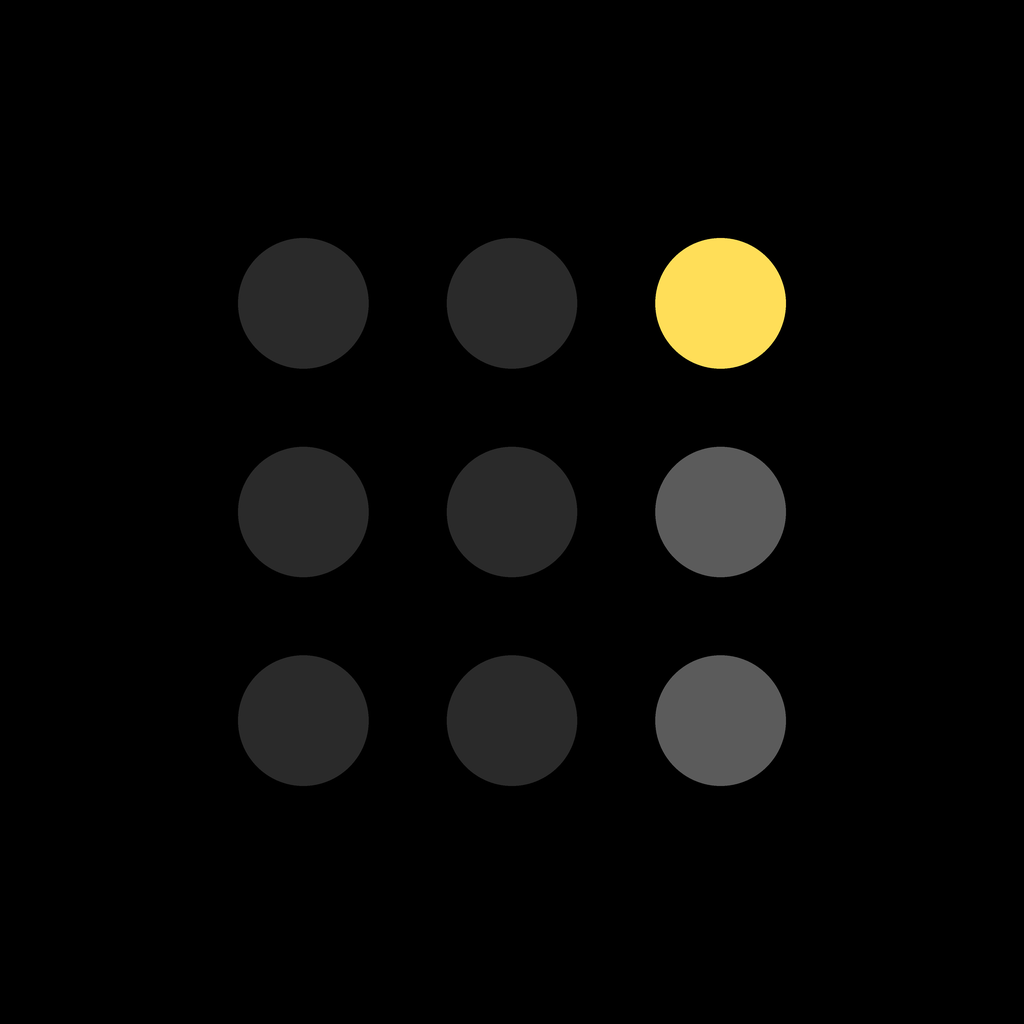
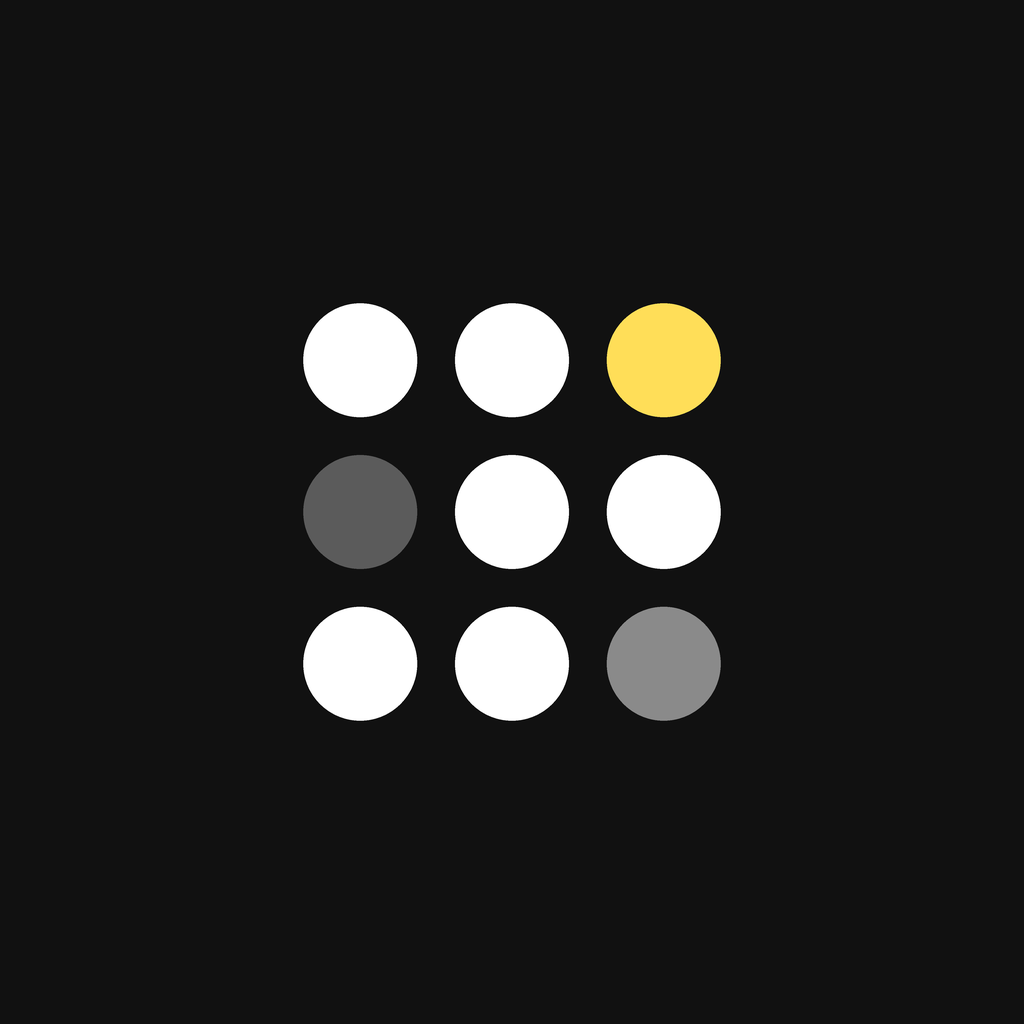
Copy the printing_app 3×3 onto a #111111 plate.
Captain locked the mark as the legacy adaptive icon, not charcoal-on-black:
white dots, yellow top-right, grey middle-left, lighter grey bottom-right.
Splash and adaptive layers use the same opaque plate so no white hole shows.

diff --git a/__tests__/appIcon.test.ts b/__tests__/appIcon.test.ts
@@ -36,7 +36,7 @@ describe("GRIDGO app icon", () => {
   it("points icon, adaptive layers, favicon and splash at the mark files", () => {
     expect(appJson.expo.icon).toBe("./assets/images/icon.png");
     expect(appJson.expo.android?.adaptiveIcon).toEqual({
-      backgroundColor: "#000000",
+      backgroundColor: "#111111",
       foregroundImage: "./assets/images/android-icon-foreground.png",
       backgroundImage: "./assets/images/android-icon-background.png",
       monochromeImage: "./assets/images/android-icon-monochrome.png",
@@ -45,10 +45,10 @@ describe("GRIDGO app icon", () => {
 
     const splash = pluginOptions("expo-splash-screen");
     expect(splash.image).toBe("./assets/images/splash-icon.png");
-    expect(splash.backgroundColor).toBe("#ffffff");
+    expect(splash.backgroundColor).toBe("#111111");
     expect(splash.dark).toEqual({
       image: "./assets/images/splash-icon-dark.png",
-      backgroundColor: "#000000",
+      backgroundColor: "#111111",
     });
   });
 

diff --git a/scripts/generate-app-icon.py b/scripts/generate-app-icon.py
@@ -1,16 +1,13 @@
 #!/usr/bin/env python3
-"""Rasterise the GRIDGO 3×3 mark onto a black launcher plate.
+"""Rasterise the legacy printing_app adaptive mark.
 
-Captain correction 2026-08-19: do not invent a white plate. Pure-black
-dots vanish on #000000 and punch holes that show a light adaptive
-background as white dots. The nine dots are:
+Source: printing_app ic_launcher_foreground.xml (108×108 viewport, r=6,
+path starts M32/48/64 — geometric centres 38/54/70) on cockpit-black
+#111111. Captain change: middle-left is #5B5B5B, not white.
 
-  top-right      #FFDE58
-  middle-right   #5B5B5B
-  bottom-right   #5B5B5B
-  other six      #2A2A2A
-
-Geometry matches the landing favicon viewBox (centres 8/24/40, r=5).
+    #FFFFFF  #FFFFFF  #FFDE58
+    #5B5B5B  #FFFFFF  #FFFFFF
+    #FFFFFF  #FFFFFF  #8A8A8A
 
 Run from the repo root:
 
@@ -23,21 +20,20 @@ from pathlib import Path
 
 from PIL import Image, ImageDraw
 
-PLATE = (0x00, 0x00, 0x00, 255)
-DOT_CHARCOAL = (0x2A, 0x2A, 0x2A, 255)
-DOT_GRAY = (0x5B, 0x5B, 0x5B, 255)
+# printing_app values/ic_launcher_colors.xml
+PLATE = (0x11, 0x11, 0x11, 255)
+DOT_WHITE = (0xFF, 0xFF, 0xFF, 255)
 DOT_YELLOW = (0xFF, 0xDE, 0x58, 255)
-MONO_DOT = (0xF0, 0xF0, 0xF0, 255)
+DOT_MID_LEFT = (0x5B, 0x5B, 0x5B, 255)
+DOT_BOT_RIGHT = (0x8A, 0x8A, 0x8A, 255)
 
-# favicon.svg viewBox="0 0 48 48": centres at 8/24/40, r=5.
-CENTRES = (8, 24, 40)
-RADIUS = 5
-VIEW = 48
+# Vector viewport 108. Path `M32,38 a6,6 …` is a r=6 circle whose centre
+# is start + radius, i.e. 38 / 54 / 70. Do not add a second safe-zone
+# inset: the 108 canvas already is the adaptive icon.
+VIEW = 108
+CENTRES = (38, 54, 70)
+RADIUS = 6
 
-# Android adaptive icons are 108dp; the unmasked safe zone is the inner 66dp.
-SAFE_ZONE = 66 / 108
-
-# Super-sample then Lanczos-down so the dots stay round, not stair-stepped.
 SCALE = 4
 
 ROOT = Path(__file__).resolve().parent.parent
@@ -46,44 +42,28 @@ OUT = ROOT / "assets" / "images"
 
 def dot_fill(col: int, row: int, *, mono: bool) -> tuple[int, int, int, int]:
     if mono:
-        return MONO_DOT
+        return DOT_WHITE
     if col == 2 and row == 0:
         return DOT_YELLOW
-    if col == 2:
-        return DOT_GRAY
-    return DOT_CHARCOAL
+    if col == 0 and row == 1:
+        return DOT_MID_LEFT
+    if col == 2 and row == 2:
+        return DOT_BOT_RIGHT
+    return DOT_WHITE
 
 
-def draw_mark(
-    size: int,
-    *,
-    mono: bool = False,
-    inner_ratio: float = 1.0,
-    plate: tuple[int, int, int, int] | None = PLATE,
-) -> Image.Image:
-    """Paint the 3×3 mark into a size×size canvas.
-
-    `inner_ratio` is the fraction of the canvas the 48-unit viewBox occupies
-    (centred). 66/108 puts every dot inside Android's adaptive safe zone.
-
-    Default plate is opaque black so no transparent hole can show a light
-    adaptive background through. Pass plate=None only for the splash image
-    that sits on the splash backgroundColor.
-    """
+def draw_mark(size: int, *, mono: bool = False) -> Image.Image:
+    """Paint the 3×3 mark into a size×size opaque #111111 plate."""
     big = size * SCALE
-    fill = plate if plate is not None else (0, 0, 0, 0)
-    canvas = Image.new("RGBA", (big, big), fill)
+    canvas = Image.new("RGBA", (big, big), PLATE)
     draw = ImageDraw.Draw(canvas)
-
-    inner = size * inner_ratio
-    origin = (size - inner) / 2
-    unit = inner / VIEW
+    unit = size / VIEW
 
     for row, cy in enumerate(CENTRES):
         for col, cx in enumerate(CENTRES):
             color = dot_fill(col, row, mono=mono)
-            px = (origin + cx * unit) * SCALE
-            py = (origin + cy * unit) * SCALE
+            px = cx * unit * SCALE
+            py = cy * unit * SCALE
             r = RADIUS * unit * SCALE
             draw.ellipse((px - r, py - r, px + r, py + r), fill=color)
 
@@ -92,8 +72,6 @@ def draw_mark(
 
 def save_png(image: Image.Image, name: str) -> None:
     path = OUT / name
-    if image.mode == "RGBA" and all(px[3] == 255 for px in (image.getpixel((0, 0)),)):
-        image = image.convert("RGB")
     image.save(path, format="PNG", optimize=True)
     print(f"wrote {path.relative_to(ROOT)} ({image.size[0]}×{image.size[1]} {image.mode})")
 
@@ -101,25 +79,16 @@ def save_png(image: Image.Image, name: str) -> None:
 def main() -> None:
     OUT.mkdir(parents=True, exist_ok=True)
 
-    # Home-screen / iOS icon: opaque black plate, mark inset so the squircle
-    # mask does not clip a corner dot.
-    save_png(draw_mark(1024, inner_ratio=0.70).convert("RGB"), "icon.png")
-
-    # Adaptive layers. Foreground is an opaque black tile plus all nine
-    # dots (no holes). Background is the same black. Monochrome is nine
-    # light dots on black so themed icons still show the full grid.
-    save_png(draw_mark(1024, inner_ratio=SAFE_ZONE).convert("RGB"), "android-icon-foreground.png")
+    mark = draw_mark(1024).convert("RGB")
+    save_png(mark, "icon.png")
+    save_png(mark, "android-icon-foreground.png")
     save_png(Image.new("RGB", (1024, 1024), PLATE[:3]), "android-icon-background.png")
-    save_png(draw_mark(1024, mono=True, inner_ratio=SAFE_ZONE).convert("RGB"), "android-icon-monochrome.png")
+    save_png(draw_mark(1024, mono=True).convert("RGB"), "android-icon-monochrome.png")
 
-    # Splash: same nine-dot recipe, transparent canvas, so light (#ffffff)
-    # and dark (#000000) splash backgrounds both carry the mark. Charcoal
-    # reads on both; do not invert to white.
-    save_png(draw_mark(1024, inner_ratio=0.72, plate=None), "splash-icon.png")
-    save_png(draw_mark(1024, inner_ratio=0.72, plate=None), "splash-icon-dark.png")
-
-    # Web tab icon: same black plate as the launcher.
-    save_png(draw_mark(48, inner_ratio=0.84).convert("RGB"), "favicon.png")
+    # Same plate + mark as the launcher so splash cannot invert or charcoal.
+    save_png(mark, "splash-icon.png")
+    save_png(mark, "splash-icon-dark.png")
+    save_png(draw_mark(48).convert("RGB"), "favicon.png")
 
 
 if __name__ == "__main__":
